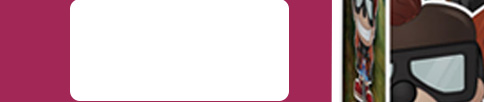
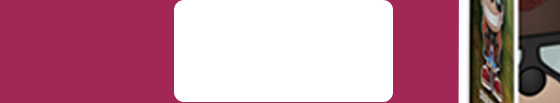
new size, worki on chrome, firefox and safari

diff --git a/static/style.css b/static/style.css
@@ -3,12 +3,12 @@
 }
 
 .post{
-  width: 800px;
+  width: 1120px;
 }
 
 .image1{
-  height:226px;
-  width: 800px;
+  height:298.5px;
+  width: 1120px;
   background: url(../images/Sorteo-2018_01.jpg);
   background-size: contain;
 
@@ -20,42 +20,42 @@
 }
 
 .image2a{
-  height:40.8px;
-  width: 143.5px;
+  height: 51.5px;
+  width: 280px;
   float: left;
   background: url(../images/Sorteo-2018_02.jpg);
-  background-size: contain;
+  background-size: cover;
   position: relative;
 }
 
 .image2b{
-  height:40.8px;
-  width: 257px;
+  height: 51.5px;
+  width: 280px;
   float: left;
   background: url(../images/Sorteo-2018_03.jpg);
-  background-size: contain;
+  background-size: cover;
 }
 
 .image2c{
-  height:40.8px;
-  width: 193px;
+  height: 51.5px;
+  width: 280px;
   float: left;
   background: url(../images/Sorteo-2018_04.jpg);
-  background-size: contain;
+  background-size: cover;
   position: relative;
 }
 
 .image2d{
-  height:40.8px;
-  width: 206.4px;
+  height: 51.5px;
+  width: 280px;
   float: left;
   background: url(../images/Sorteo-2018_05.jpg);
-  background-size: contain;
+  background-size: cover;
 }
 
 .image3{
-  height: 162.8px;
-  width: 800px;
+  height: 190px;
+  width: 1120px;
   background: url(../images/Sorteo-2018_06.jpg);
   background-size: contain;
 }
@@ -64,38 +64,40 @@
   IMAGE 4
 */
 .image4{
-  display: inline-block;
+  /*display: inline-block;*/
   float: left;
 }
 
 .image4a{
-  height:55.2px;
-  width: 204px;
+  height: 51.5px;
+  width: 280px;
   float: left;
   background: url(../images/Sorteo-2018_07.jpg);
-  background-size: contain;
+  background-size: cover;
+  position: relative;
 }
 
 .image4b{
-  height:55.2px;
-  width: 196px;
+  height: 51.5px;
+  width: 280px;
   float: left;
   background: url(../images/Sorteo-2018_08.jpg);
-  background-size: contain;
+  background-size: cover;
   position: relative;
 }
 
 .image4c{
-  height:55.2px;
-  width: 193px;
+  height: 51.5px;
+  width: 280px;
   float: left;
   background: url(../images/Sorteo-2018_09.jpg);
-  background-size: contain;
+  background-size: cover;
+  position: relative;
 }
 
 .image4d{
-  height:55.2px;
-  width: 206.8px;
+  height: 51.5px;
+  width: 280px;
   float: left;
   background: url(../images/Sorteo-2018_10.jpg);
   background-size: contain;
@@ -106,8 +108,8 @@
   IMAGE 5
 */
 .image5{
-  height: 75.6px;
-  width: 800px;
+  height: 108px;
+  width: 1120px;
   background: url(../images/Sorteo-2018_11.jpg);
   background-size: contain;
 }
@@ -122,25 +124,23 @@
 }
 .sailor{
   position: absolute;
-  left:28.7px;
-  top: -2px;
+  left:68.7px;
 }
 
 .crash{
   position: absolute;
-  left:28px;
-  top: -2px;
+  left:98px;
 }
 
 .draco{
   position: absolute;
-  left:62px;
+  left:108px;
   top: 4px;
 }
 
 .trunks{
   position: absolute;
-  left:28px;
+  left:38px;
   top: 2px;
 }
 
